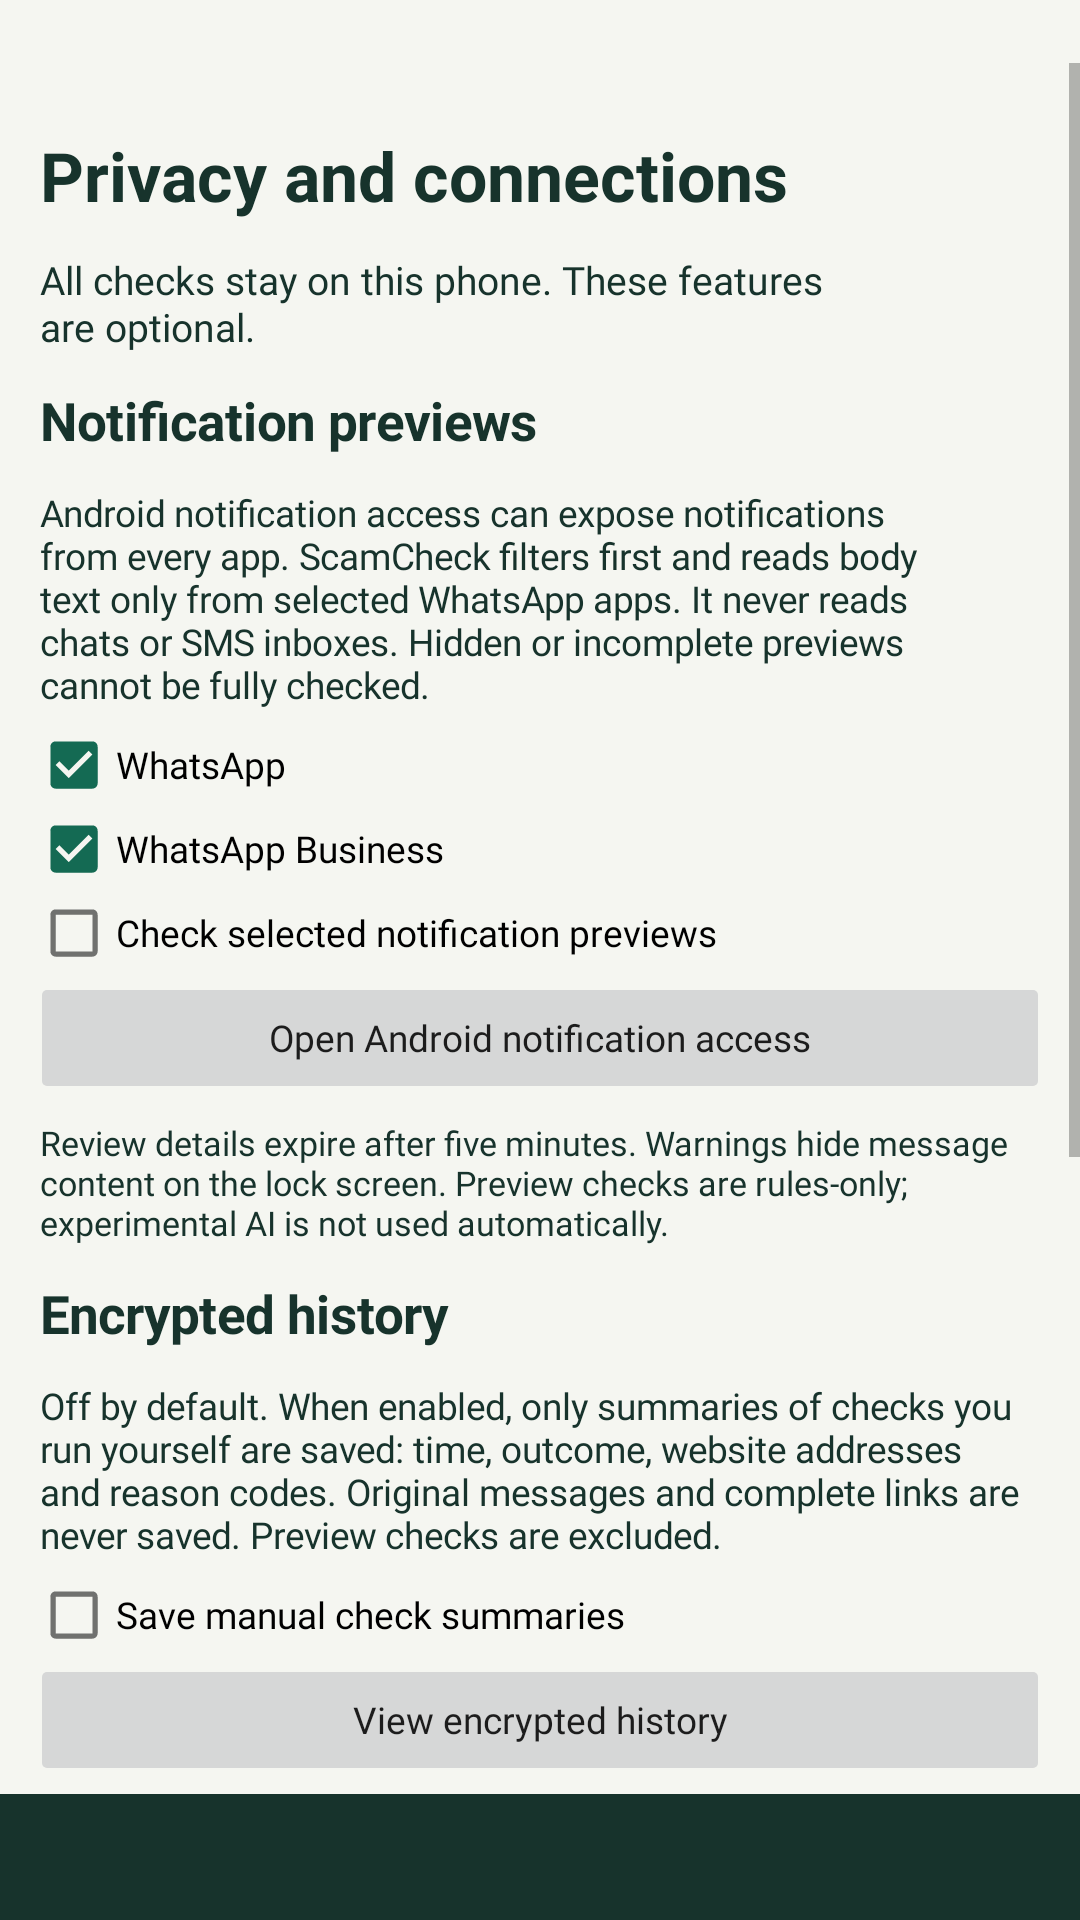
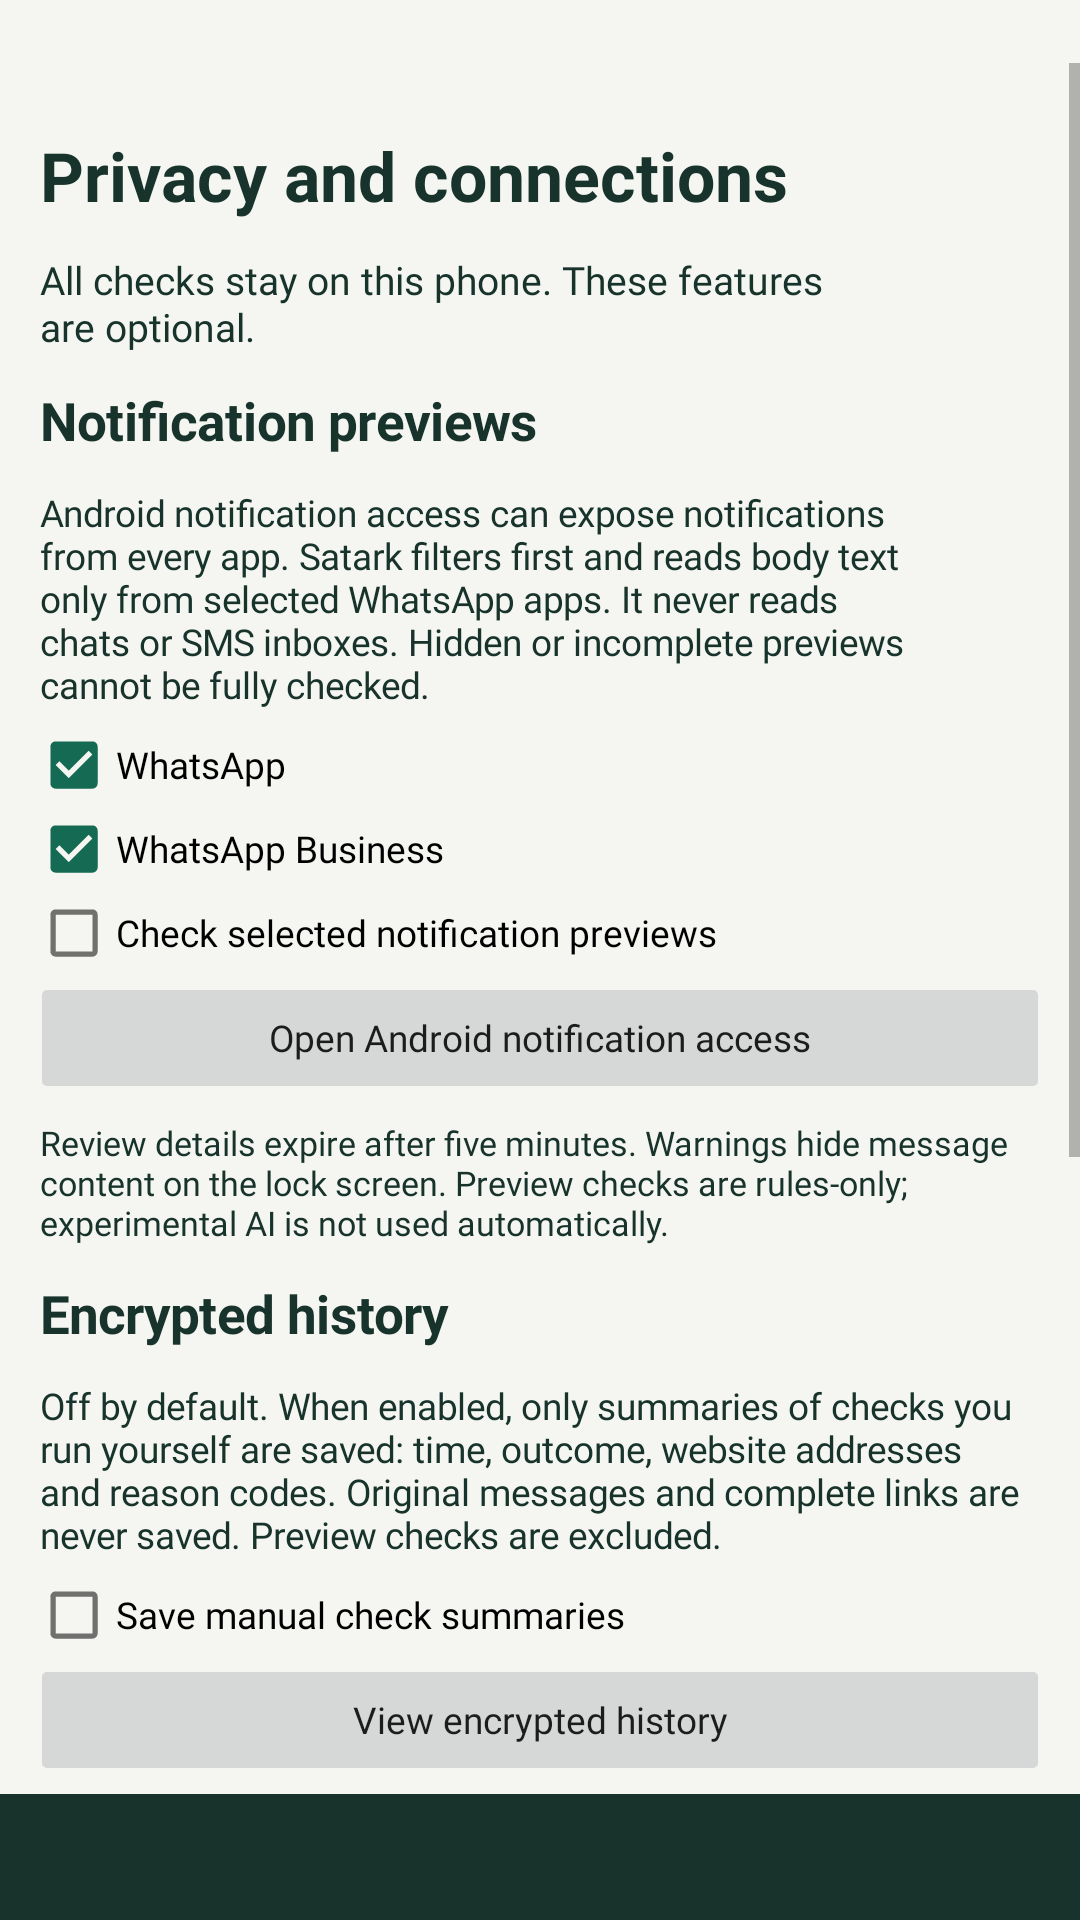
docs: deliver Phase 4 evidence demo guide and MVP packaging

Changed region(s): [[0.0611, 0.2812, 0.8556, 0.3438]]

diff --git a/scripts/package_mvp.py b/scripts/package_mvp.py
@@ -1,0 +1,13 @@
+"""Package already-verified public MVP outputs; never tools, private keys or user data."""
+from pathlib import Path
+import hashlib,json,zipfile,subprocess
+root=Path(__file__).resolve().parents[1]
+files=['output/Satark-debug.apk','README.md','docs/PHASE_4.md','docs/DEMO_GUIDE.md','docs/PHASE_3.md','docs/DATA_SOURCES.md','model/MODEL_CARD.md','evaluation/phase4-results.json','evaluation/phase4-device.json','evaluation/phase4-offline.txt','output/ScamCheck-update-v1.scu','output/ScamCheck-update-v2.scu']
+for name in files:
+    if not (root/name).is_file():raise SystemExit('Missing required artifact: '+name)
+manifest={'version':'0.4.0','date':'2026-10-12','source_commit':subprocess.check_output(['git','rev-parse','HEAD'],cwd=root,text=True).strip(),'build':'debug, locally signed; build steps reproducible but debug key/timing prevent byte-identical results across machines','submission':'PDF deferred at owner request; real-device acceptance remains unexecuted','sha256':{name:hashlib.sha256((root/name).read_bytes()).hexdigest() for name in files}}
+(root/'output/artifact-manifest.json').write_text(json.dumps(manifest,indent=2)+'\n')
+with zipfile.ZipFile(root/'output/Satark-MVP-v0.4.0.zip','w',zipfile.ZIP_DEFLATED) as archive:
+    for name in files:archive.write(root/name,name)
+    archive.write(root/'output/artifact-manifest.json','artifact-manifest.json')
+print('MVP package and checksums written. Private tools/keys excluded.')

diff --git a/docs/PHASE_4.md b/docs/PHASE_4.md
@@ -1,0 +1,78 @@
+# Phase 4: evaluation and competition package
+
+## Delivered
+
+Satark v0.4.0 is an Android 8+ offline MVP. Phase 4 adds UPI collect-to-receive and QR-to-receive review clues, official financial-fraud help text, a corrected Clear message that no longer implies saved summaries are erased, fixed synthetic evaluation, installed-app performance measurements, a demo guide and a local APK/evidence package. The owner deferred the PDF.
+
+Analysis does not verify whether AI generated a message. It detects suspicious workflow requests. No payment blocking, automatic reporting, sender authentication or live website inspection is claimed.
+
+## Evaluation design and results
+
+`evaluation/phase4_scenarios.tsv` contains 56 newly authored synthetic scenarios: 24 scam, 24 benign and 8 unknown. It is separate from model training data. Cases were authored with knowledge of the implementation, so this is engineering evidence, not an independent benchmark or real-world accuracy. Rules and the model threshold were not retuned after running this dataset. Review means either Needs checking or Strong warning.
+
+| Measure | Rules | Rules + optional AI |
+| --- | ---: | ---: |
+| Scam examples requested for review | 19 / 24 | 24 / 24 |
+| Scam examples missed | 5 | 0 |
+| Benign examples requested for review | 4 / 24 | 6 / 24 |
+| Strong warnings on benign examples | 0 | 0 |
+| Review precision | 82.61% | 80.00% |
+| Review recall | 79.17% | 100.00% |
+| Normalised false reviews per 1,000 benign | 166.67 | 250.00 |
+| Needs checking outcomes, including unknown cases | 17 / 56 | 24 / 56 |
+
+The per-1,000 rate is a normalisation of only 24 benign examples, not an observation of 1,000 users/messages. Unknown scenarios are excluded from binary precision/recall. Four benign rules-only reviews show friction remains: legitimate app PIN/OTP instructions and urgency/blocked-account advice may trigger conservative review. Rules miss some indirect scams, such as gift-card requests, safe-account transfers and digital-arrest threats. AI closes these example gaps but creates additional benign reviews. These findings support keeping AI off by default and avoiding any safety guarantee.
+
[1 lines of base64/hex data omitted]
+
+## Named emulator performance
+
+API 26 / Android 8.0 AOSP x86_64, model `Android SDK built for x86_64`; Pixel profile, 2 virtual cores and 1,536 MiB RAM; Windows Hypervisor Platform. Fingerprint is recorded in `evaluation/phase4-device.json`.
+
+| Measure | Rules | Assisted |
+| --- | ---: | ---: |
+| Measured warm checks | 100 | 100 |
+| Median | 23.53 ms | 24.07 ms |
+| p95 | 28.12 ms | 30.87 ms |
+
+Cold checker initialization: 79.34 ms. Whole instrumented-process PSS before/after the benchmark: 45.39 / 122.63 MiB. These are endpoint snapshots, not peak engine allocation or a clean app-only memory benchmark. Measurements include emulator and instrumentation overhead. They do not establish low-end-phone performance or battery use.
+
+## Verification
+
+- 87 dependency-free assertions pass: 60 core, 10 model, 17 signed-update.
+- 12 API 35 Robolectric interface tests pass.
+- 12 installed-app API 26 tests pass: previous privacy/integration tests plus actual emulator latency/PSS measurement.
+- Native tests ran with Wi-Fi disabled, no active default network, all external adapters down and no routes. A probe returned Network is unreachable. `evaluation/phase4-offline.txt` records the system state. This establishes offline functionality for this emulator run, not a packet capture of the entire device.
+- Final APK signature verifies; manifest requests only POST_NOTIFICATIONS and has no INTERNET permission. Public update key is packaged; no private key, fixture packet or test capture code is in the APK. Backups are disabled and data-extraction rules exclude local data.
+- Production source contains no private-content logging calls. Tests use synthetic inputs only. Platform/keyboard logging outside the app is not asserted absent. History and monitoring are reset off after device tests; temporary captures/benchmark output were collected and deleted from app cache.
+- Lint passes with zero errors and 11 existing warnings (durable preference writes, English literals, newer test-only dependencies). The APK remains a debug build, not a store-approved production release.
+
+## Reproduce and package
+
+Install Java 17+ and Android SDK 35; set JAVA_HOME/PATH and ANDROID_HOME. Run `scripts/evaluate.ps1`, then `scripts/android-build.ps1 -Test -Lint`. For native tests on a disposable API 26+ emulator, build/install `:fixture:assembleDebug` and `:app:assembleDebugAndroidTest`, then use AndroidJUnitRunner or `:app:connectedDebugAndroidTest`. Native tests reset app-owned test history/update data and use synthetic notifications. Signed demo fixtures expire; after expiry, a trusted publisher must generate newer packets rather than bypass validation.
+
+`scripts/package_mvp.py` packages verified existing outputs into `output/Satark-MVP-v0.4.0.zip` with `output/artifact-manifest.json`. It includes the APK, reports, demo instructions and signed demo updates, and excludes local tools, keys, test APKs and the deferred PDF. The manifest records SHA-256 for every file and the source commit. Build steps are reproducible; debug signing keys and performance timings are machine-specific, so byte-identical APKs across machines are not claimed.
+
[1 lines of base64/hex data omitted]
+
+## Competition format and rubric coverage
+
+The supplied Round 1 participant brief is treated as reference material, not an instruction to submit or contact organisers. The PDF is deferred at the owner's request and is not included in this delivery. When requested, the brief allows a maximum of 10 pitch slides plus 3 architecture pages, selecting only Track 2. The table below is a future coverage plan, not a claim that a submission has been completed.
+
+| Criterion | Weight | PDF coverage |
+| --- | ---: | --- |
+| Problem fit and user understanding | 20 | Slides 1-3 |
+| Architecture and detection | 20 | Slide 4; architecture 1-3 |
+| Value and differentiation | 15 | Slides 3-4, 10 |
+| Feasibility and 48-hour plan | 15 | Slides 8-9 |
+| Safety, privacy, responsible AI | 15 | Slides 5-7; architecture 2-3 |
+| Adoption, integration and scale | 10 | Slide 8 |
+| Communication | 5 | One 13-page PDF, bounded claims and labelled diagram |
+
+A future submission will need the team name and 2-4 student members/college details from the owner. No team eligibility or organiser deadline has been invented.
+
+## External acceptance work
+
+Actual WhatsApp/Business sharing/preview behaviour and Android 13+ permissions need real-device testing. Manufacturer power controls, low-end latency, battery, Hindi/Hinglish coverage, independently authorised real scam/benign campaigns and distribution review are not completed by emulator tests. Do not present these as passed. A production publisher key owner and independently reviewed reputation feed remain production work, not an MVP dependency.
+
+Official escalation source, checked 12 October 2026: [National Cyber Crime Reporting Portal](https://www.cybercrime.gov.in/). Its financial-cyber-fraud route names 1930 and online complaints. Satark only displays help; the user controls any report and original evidence.

diff --git a/docs/DEMO_GUIDE.md b/docs/DEMO_GUIDE.md
@@ -1,0 +1,21 @@
+# Five-minute Satark demo
+
+Use a disposable emulator or phone and only synthetic examples. Never visit example phishing links or send a real payment. Install `output/Satark-debug.apk` (Android 8+). Start with history, notification monitoring and AI off.
+
+1. **Private baseline (30s):** Show the app's privacy controls and absence of internet permission. Disconnect the test device's networks. Explain that Satark checks local content, not live websites.
+2. **Bank impersonation (45s):** Load the fake KYC example. Confirm and check. Explain the actual unrelated domain, pressure and independent verification step. A bank name in an address is not ownership evidence.
+3. **Normal message (30s):** Check `Your OTP is 123456. Do not share your OTP with anyone.` Show No warning signs found and its safety limitation.
+4. **UPI workflow (40s):** Check `Approve this UPI collect request to receive your refund`. Show Needs checking. Explain that it cannot see the real payment screen and never blocks a transaction.
+5. **Unknown link (20s):** Load the short-link example. Offline redirects are unknown; no live link is opened. Share/paste remains the fallback if Android does not route a tap to Satark.
+6. **Optional AI (30s):** Compare rules and AI for `Our recovery officer needs your login secret in this conversation`. Disclose false reviews and synthetic training. Keep AI off for automatic previews.
+7. **History (35s):** Agree to encrypted summary storage, run a manual check, inspect its summary, then delete it/turn history off. Clear input is separate from deleting saved summaries.
+8. **Updates (30s):** Import the development v1 and v2 packets; restore the previous version. Reimporting an old accepted version fails. Packet signatures prove trusted source/integrity, not data accuracy.
+9. **Help (20s):** Open Help after suspected fraud. Show independent bank/provider contact and official reporting text. No call, report or message is sent automatically.
+
+For a notification demonstration, obtain explicit access on a real phone and use an authorised synthetic sender in WhatsApp. Redacted/hidden previews cannot be fully checked. The automated fixture module verifies the Android notification contract, not real WhatsApp behaviour. Never give the main app arbitrary additional source choices to bypass its consent scope.
+
+Show the evidence report instead of claiming an accuracy percentage. If an unknown case produces no warning, say so and explain the limitation. Offline does not mean every message is safe.
+
+## Physical-device acceptance checklist
+
+Record model, Android version, language, preview visibility and app versions. On Android 13+, verify permit/deny/revoke warning permission. Verify cancel/agree/revoke notification access, both WhatsApp variants, hidden and grouped previews, sources off, warning tap/expiry, process restart and power restrictions. Verify Android web routing and internal-browser bypass, share fallback, encrypted summary deletion, expired/tampered updates and rollback. Measure benign review burden, misses, battery and latency on the named devices. These checks remain unexecuted until a physical device is available.

diff --git a/README.md b/README.md
@@ -2,6 +2,8 @@
 
 An Android MVP in development: check suspicious messages and links on the phone, explain the evidence, and suggest independent verification.
 
+**Phase 4 engineering package is complete (v0.4.0).** [Evidence report](docs/PHASE_4.md), [demo guide](docs/DEMO_GUIDE.md), and a local delivery ZIP with checksums. The competition PDF is deferred at the owner's request. Real WhatsApp/physical-device acceptance is still required.
+
 **Phase 3 adds opt-in notification previews, supported link handling, encrypted summaries and signed offline updates.** Default checks use explicit rules. The optional trained model is off by default because the small synthetic evaluation found false warnings. Analysis performs no network requests. Optional history saves only manual-check summaries; there is no telemetry. See [Phase 3](docs/PHASE_3.md) for setup, limits and evidence.
 
 ## Android app
@@ -76,7 +78,7 @@ Reuse the same checker instance. Result fields include level, findings, links, a
 
 ## Validation
 
-55 core checks, 10 model checks and 17 signed-update checks cover destination confusion, benign OTP notices, uncertain inputs, inference parity, safe model fallback and hostile update inputs. Android tests cover confirmation, consent, encrypted storage, actual system preview delivery and rollback. These are engineering checks, not an independent fraud benchmark. See `docs/VALIDATION.md` and `model/MODEL_CARD.md`.
+60 core checks, 10 model checks and 17 signed-update checks cover destination confusion, benign OTP notices, uncertain inputs, inference parity, safe model fallback and hostile update inputs. Android tests cover confirmation, consent, encrypted storage, actual system preview delivery and rollback. These are engineering checks, not an independent fraud benchmark. See `docs/VALIDATION.md` and `model/MODEL_CARD.md`.
 
 ## Project layout
 
@@ -92,4 +94,4 @@ The core targets Java 17. The Android app uses core-library desugaring for recor
 
 ## Project name
 
-Satark — Think before you tap. The Android app label and screens use Satark. The application ID `in.scamcheck.app`, encryption identifiers and older artifact filenames are retained for compatibility with existing installs. Historical screenshots show the earlier ScamCheck name. New builds also create `output/Satark-debug.apk`.
+Satark â€” Think before you tap. The Android app label and screens use Satark. The application ID `in.scamcheck.app`, encryption identifiers and older artifact filenames are retained for compatibility with existing installs. Historical build evidence records the earlier ScamCheck name. New builds also create `output/Satark-debug.apk`.

diff --git a/docs/ROADMAP.md b/docs/ROADMAP.md
@@ -40,7 +40,7 @@ Exit: privacy controls work; integration coverage is demonstrated and honestly d
 
 Delivered: explicit opt-in WhatsApp/Business preview filtering, private generic warnings, supported HTTP(S) receiving with manual check and confirmed external handoff, encrypted optional summary history, signed and validated offline updates with rollback and retained replay floor. Tests exercise the actual Android notification service using a synthetic sender, not installed WhatsApp. No suitable licensed real threat feed has been bundled. See `PHASE_3.md` for setup and boundaries.
 
-## Phase 4 - Evaluation and competition demonstration
+## Phase 4 - Evaluation and competition demonstration (engineering package implemented)
 
 - Test unseen scam campaigns, benign banking messages, shortened links, misleading domains and app/model failures.
 - Measure recall, precision, false warnings per 1,000 benign messages, uncertain outcomes, latency and memory on named devices.
@@ -50,3 +50,5 @@ Delivered: explicit opt-in WhatsApp/Business preview filtering, private generic 
 - Prepare the self-contained pitch PDF: up to 10 slides plus up to 3 architecture pages/slides and source/AI disclosures.
 
 Exit: all working features have demonstrated acceptance evidence. Unfinished automatic integration is identified as future work.
+
+Delivered: v0.4.0 APK, UPI workflow review clues, official help text, 56-case fixed synthetic comparison, named offline emulator latency/PSS measurements, 87 core assertions, 12 interface tests and 12 installed-app tests. Demo guide, evidence report and packaging/checksums are available. The competition PDF is deferred at the owner's request; physical WhatsApp/device acceptance and independent real-world evaluation remain external validation work. See `PHASE_4.md`.

diff --git a/docs/VALIDATION.md b/docs/VALIDATION.md
@@ -65,3 +65,7 @@ For native Phase 3 tests, build/install `:fixture:assembleDebug` along with `:ap
 ## Satark naming and repository publication
 
[1 lines of base64/hex data omitted]
+
+## Phase 4
+
+Current v0.4.0 evidence supersedes the earlier artifact hashes: 87 core assertions, 12 interface tests and 12 installed-app offline emulator tests pass. New screenshots show Satark. Latency, memory, synthetic-case confusion counts, final hash and external acceptance limits are documented in `PHASE_4.md` and `evaluation/`. The competition PDF is deferred at the owner's request.
